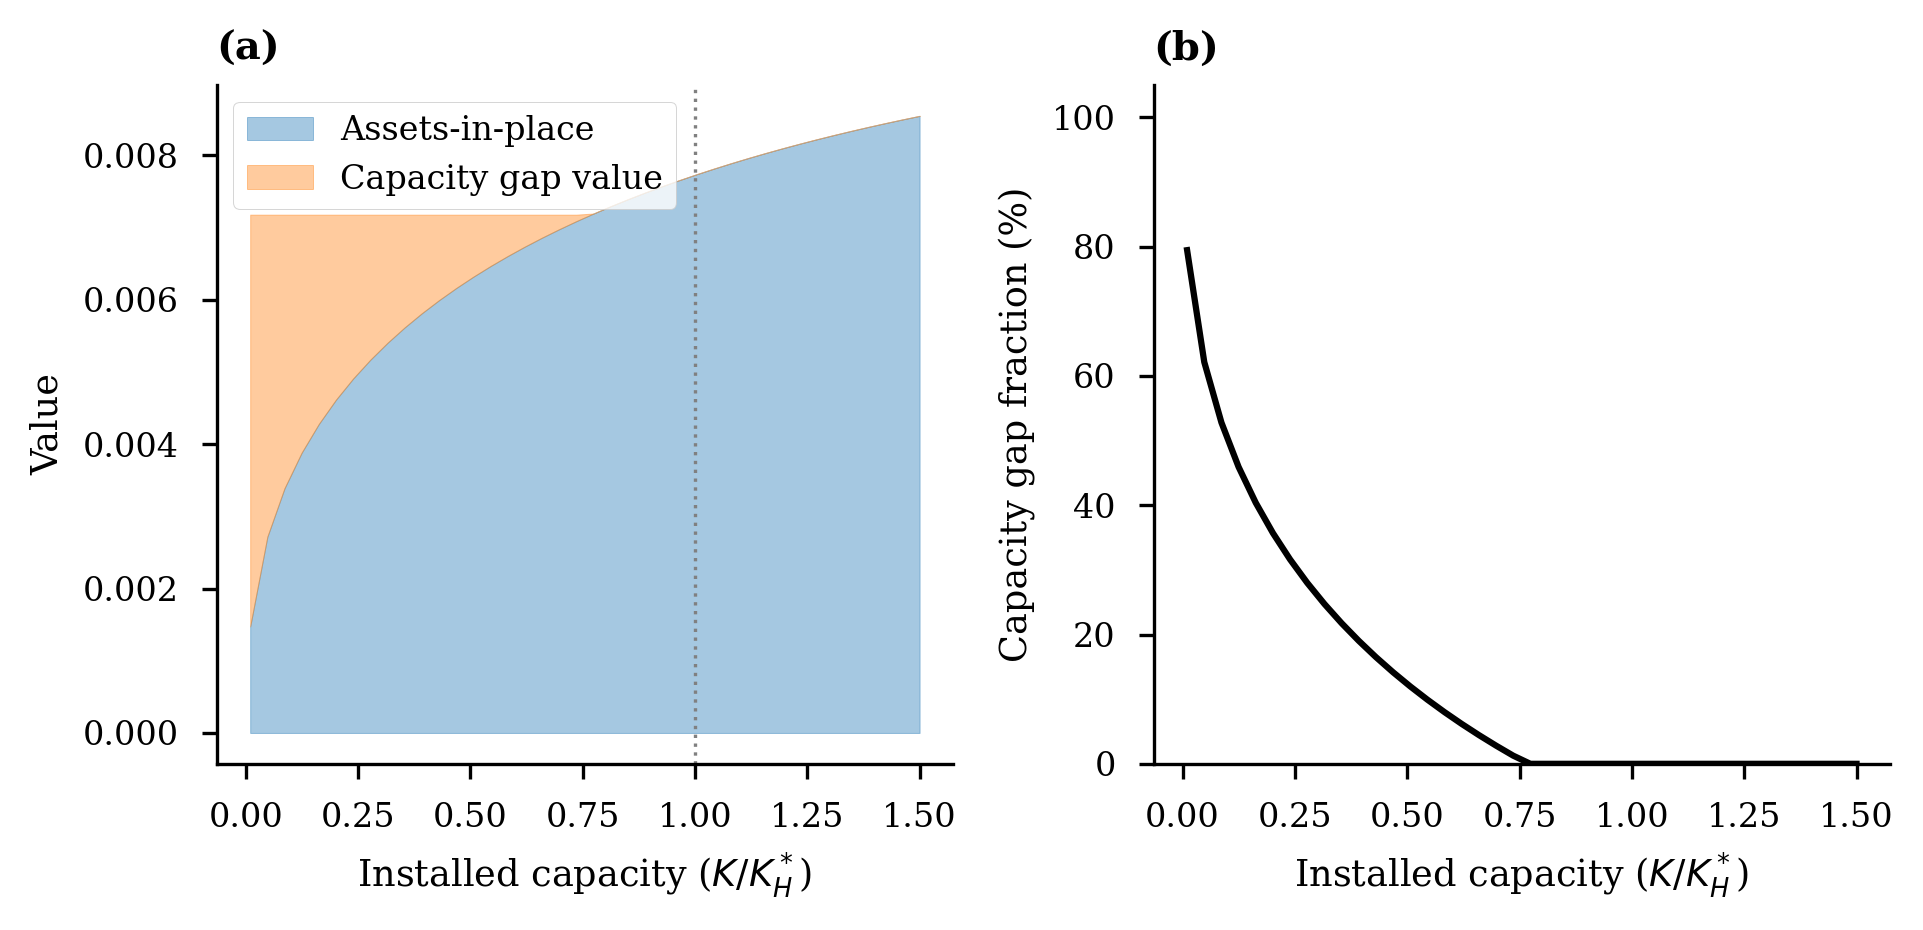
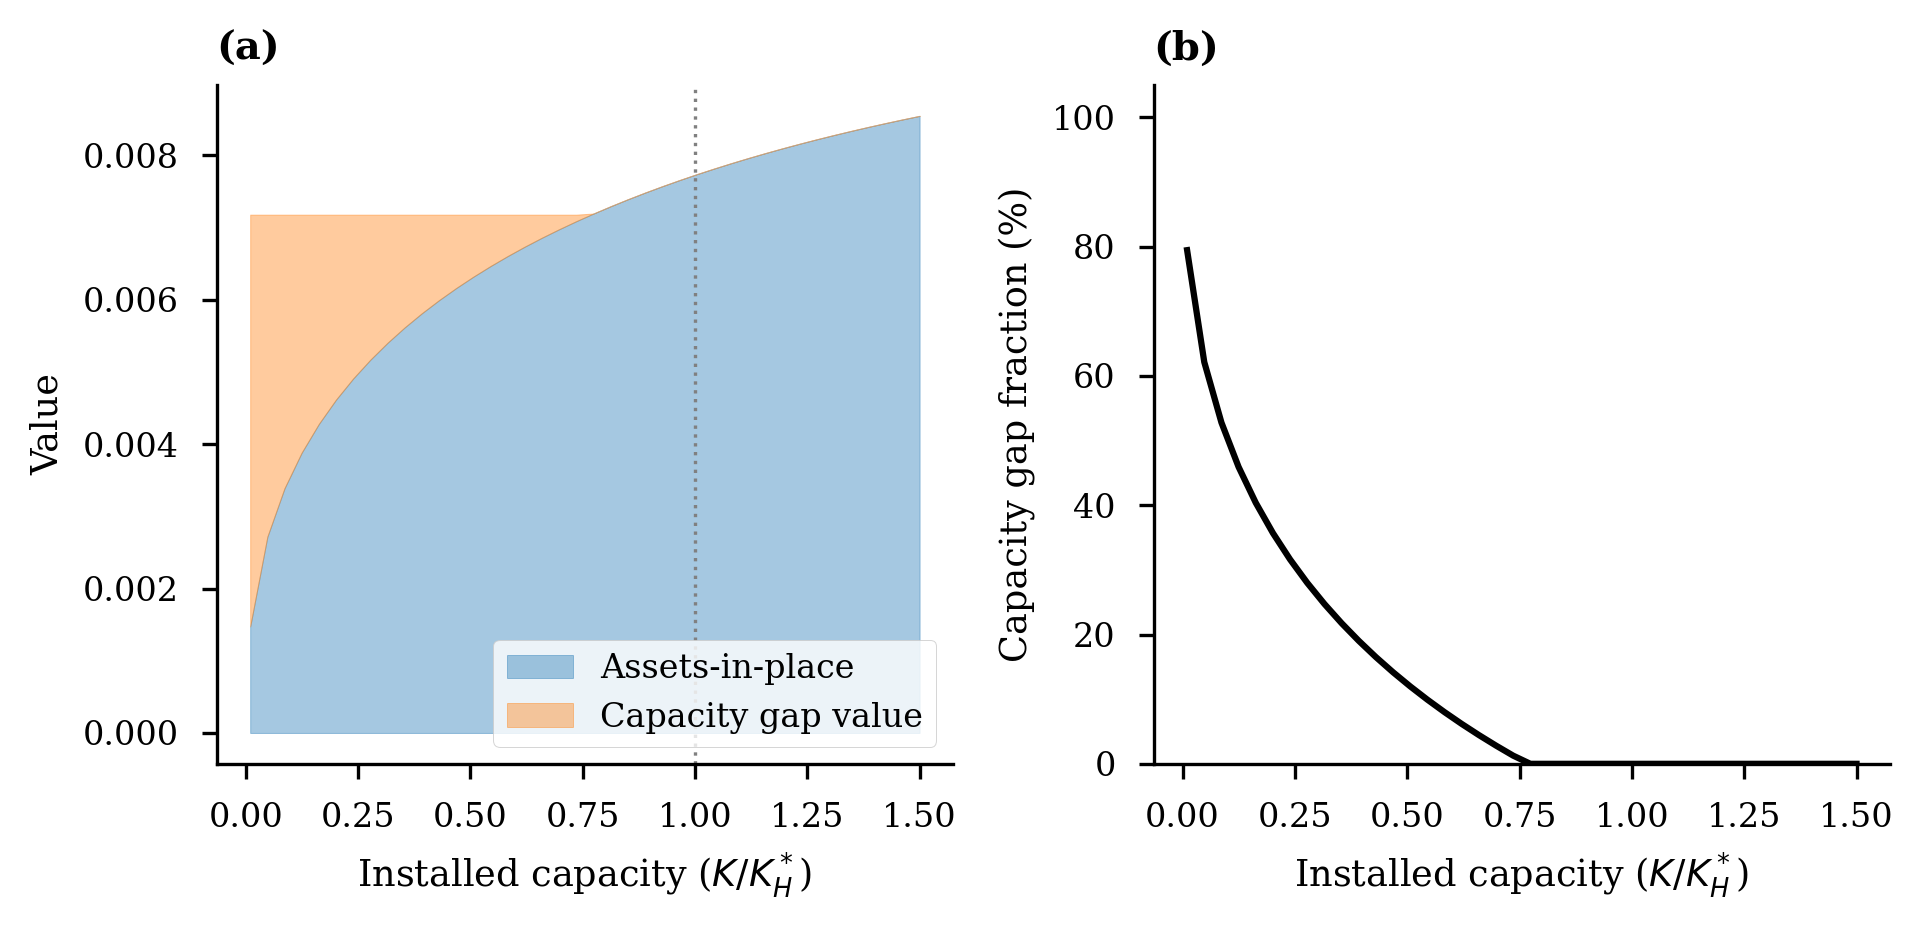
Move growth decomposition panel (a) legend to lower right

Changed region(s): [[0.2496, 0.686, 0.4992, 0.8108], [0.1248, 0.1247, 0.3744, 0.2495]]

diff --git a/src/ai_lab_investment/figures/paper.py b/src/ai_lab_investment/figures/paper.py
@@ -563,7 +563,7 @@ def create_growth_decomposition() -> plt.Figure:
     ax1.axvline(1.0, color="0.5", linestyle=":", linewidth=0.8)
     ax1.set_xlabel(r"Installed capacity ($K / K_H^*$)")
     ax1.set_ylabel("Value")
-    ax1.legend(loc="upper left")
+    ax1.legend(loc="lower right")
     ax1.set_title("(a)", loc="left", fontweight="bold")
 
     total = assets + counterfactual
